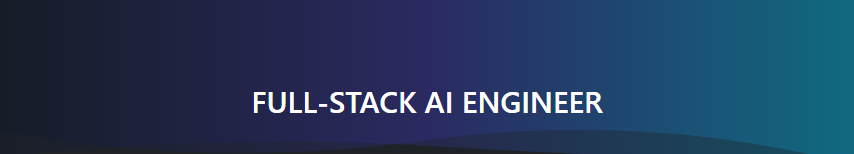
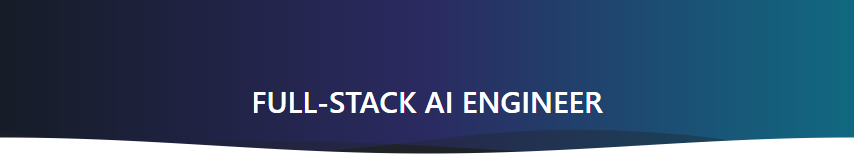
Update: professional header and footer

Changed region(s): [[0.0, 0.8831, 1.0, 1.0]]

diff --git a/README.md b/README.md
@@ -1,6 +1,6 @@
 <div align="center">
 
-<img src="https://raw.githubusercontent.com/topCoder113/topCoder113/main/assets/profile-header.png" width="100%" alt="Full-Stack AI Engineer" />
+<img src="assets/profile-header.gif" width="100%" alt="TopCoder113 — Full-Stack AI Engineer building AI products, web applications, and automations" />
 
 ### Building AI-powered apps, SaaS products & automations
 
@@ -66,15 +66,11 @@
 <br />
 
 <p align="center">
-  <img src="assets/profile-analysis.svg" width="720" alt="GitHub analysis for topCoder113: 15 public repositories, Python-led code, and AI and web development projects. Language mix across public repositories: Python 82.4%, HTML 7.4%, TypeScript 4.7%, CSS 1.8%, and other languages 3.7%." />
+  <img src="assets/profile-analysis.svg" width="720" alt="GitHub analysis for topCoder113: language mix across 15 public repositories: Python 82.4%, HTML 7.4%, TypeScript 4.7%, CSS 1.8%, and other languages 3.7%." />
 </p>
 
 </div>
 
 <div align="center">
-
-**Open to building useful products and collaborating on practical AI projects.**
-
-<img src="https://capsule-render.vercel.app/api?type=waving&color=0:0891B2,50:312E81,100:111827&height=100&section=footer" width="100%" alt="" />
-
+  <img src="assets/profile-footer.svg" width="100%" alt="Open to collaboration on useful products and practical AI projects." />
 </div>
